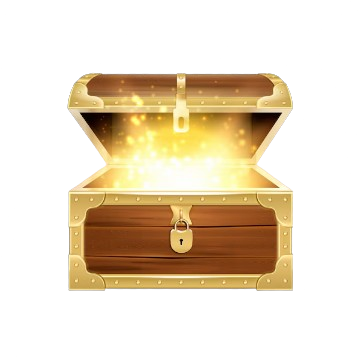
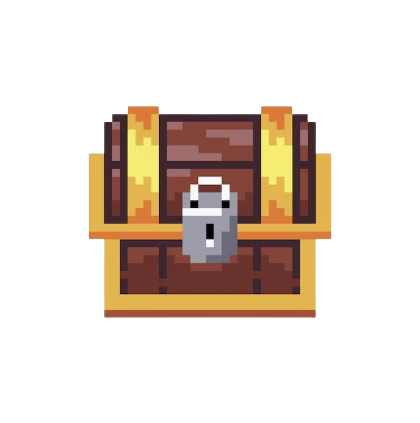
added kill noise + changed chest sprite

diff --git a/interfaces_menus/victory_screen.py b/interfaces_menus/victory_screen.py
@@ -2,9 +2,11 @@ from utils import *
 from config import *
 from interfaces_menus.button import Button, select_sound
 
-def victory_screen(screen, resolution, coins_earned, minutes, seconds, enemies_defeated, level):
+
+
+def victory_screen(screen, resolution, coins_earned, minutes, seconds, enemies_defeated, level, player, interface_w_save, interface_no_save):
+
     # Load the victory background image
-    # setting up the background:
     background1 = pygame.image.load(f"images/level{level}bg.png")
     background1 = pygame.transform.scale(background1, (width, height))
 
@@ -12,9 +14,14 @@ def victory_screen(screen, resolution, coins_earned, minutes, seconds, enemies_d
     background = pygame.transform.scale(background, (600, 600))
     background_rect = background.get_rect(center=(resolution[0] // 2, resolution[1] // 2))
 
+    # Play the sound effect
+    powerup_sound = pygame.mixer.Sound('audio/level-completed.mp3')
+    powerup_sound.set_volume(Button.sound_volume)
+    powerup_sound.play()
+
     # Load the buttons images
-    play_button = Button(resolution[0] // 2 - 70, resolution[1] // 1.5, 140, 140, "", None, None, 0, False, None,
-                         'images/play_button.png')
+    back_button = Button(resolution[0] // 2 - 70, 550, 140, 60, "Back", brown, "fonts/Grand9KPixel.ttf", 27, True, light_brown, image='images/Wood-button1.png')
+    next_level_button = Button(resolution[0] // 2 - 70, 450, 140, 60, "Next Level", brown, "fonts/Grand9KPixel.ttf", 20, True, light_brown, image='images/Wood-button1.png')
 
     # Set font
     pixel_font = pygame.font.Font("fonts/Grand9KPixel.ttf", 45)
@@ -42,9 +49,20 @@ def victory_screen(screen, resolution, coins_earned, minutes, seconds, enemies_d
                 return
             elif ev.type == pygame.MOUSEBUTTONDOWN:
                 mouse_pos = pygame.mouse.get_pos()
-                if play_button.is_clicked(mouse_pos, ev):
+
+                if back_button.is_clicked(mouse_pos, ev):
                     select_sound()
+                    from interfaces_menus.map import map_layout
                     victory = False
+                    map_layout(player, interface_w_save, interface_no_save)
+                    return
+                elif next_level_button.is_clicked(mouse_pos, ev):
+                    select_sound()
+                    from interfaces_menus.map import map_layout
+                    from game import game_loop
+                    victory = False
+                    game_loop(level + 1, player, map_layout, interface_w_save, interface_no_save)
+                    return
 
         # Render the victory screen
         screen.blit(background1, (0, 0))
@@ -53,12 +71,17 @@ def victory_screen(screen, resolution, coins_earned, minutes, seconds, enemies_d
         screen.blit(coins_text, coins_text_rect)
         screen.blit(time_text, time_text_rect)
         screen.blit(enemies_text, enemies_text_rect)
-        play_button.draw(screen, pygame.mouse.get_pos())
+        back_button.draw(screen, pygame.mouse.get_pos())
+        next_level_button.draw(screen, pygame.mouse.get_pos())
 
-        # Putting visual effects on buttons
-        if play_button.is_hovered(pygame.mouse.get_pos()):
-            play_button.scale_up()
+        if back_button.is_hovered(pygame.mouse.get_pos()):
+            back_button.scale_up()
         else:
-            play_button.scale_down()
+            back_button.scale_down()
+
+        if next_level_button.is_hovered(pygame.mouse.get_pos()):
+            next_level_button.scale_up()
+        else:
+            next_level_button.scale_down()
 
         pygame.display.update()

diff --git a/game.py b/game.py
@@ -266,6 +266,12 @@ def game_loop(level, player, map_layout, interface_w_save, interface_no_save):
                 enemy.health -= player.weapon.damage
                 bullet.kill()
                 if enemy.health <= 0:
+
+                    # Play the sound effect
+                    powerup_sound = pygame.mixer.Sound('audio/kill-noise.mp3')
+                    powerup_sound.set_volume(sound_volume)
+                    powerup_sound.play()
+
                     enemy.kill()
                     coins_earned += 5
                     enemies_defeated += 1
@@ -305,7 +311,7 @@ def game_loop(level, player, map_layout, interface_w_save, interface_no_save):
             player.speed = player.speed_cap
 
             # Call the victory screen
-            victory_screen(screen, resolution, coins_earned, minutes, seconds, enemies_defeated, level)
+            victory_screen(screen, resolution, coins_earned, minutes, seconds, enemies_defeated, level, player, interface_w_save, interface_no_save)
 
             map_layout(player, interface_w_save, interface_no_save)
             return
